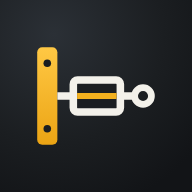
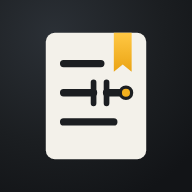
Yeni simge ve açılış efekti: not defteri ve kontak
- Simge: kâğıt sayfa, sarı ayraç; orta satır açık kontağa ve sarı bağlantı
  ucuna dönüşür. Dört PNG yeniden üretildi (maskeli simge güvenli dairede).
- Açılış: sayfa belirir, satırlar yazılır, kontak belirir, uç yanar ve
  halka yayar, ayraç düşer. Sayfa temanın mürekkep rengindedir (açık temada
  koyu, koyu temada açık). Tam işaret görünsün diye ekran 0,2 sn geç söner.
- Uzun ad dar ekranda iki satıra kaymasın diye nowrap ve küçük başlangıç
  harf aralığı.
- Rehber güncellendi; Tuzaklar: scale(0) ile gizleme güvenilmez (opacity
  de ver), yuvarlak uçlu çizgide ofset boy + 20, kare çekerken animasyonu
  yüklenir yüklenmez durdur.
- Sürüm 1.19.0.

Claude-Session: https://claude.ai/code/session_018EzsJHrouReZYX2CrAk9f8

diff --git a/index.html b/index.html
@@ -10,7 +10,7 @@
 <meta name="mobile-web-app-capable" content="yes">
 <meta name="apple-mobile-web-app-title" content="Otomasyon">
 <meta name="apple-mobile-web-app-status-bar-style" content="default">
-<meta name="pano-surum" content="202609280817">
+<meta name="pano-surum" content="202609280827">
 <link rel="manifest" href="manifest.webmanifest">
 <link rel="icon" type="image/png" href="varliklar/simgeler/icon-192.png">
 <link rel="apple-touch-icon" href="varliklar/simgeler/apple-touch-icon.png">
@@ -310,34 +310,42 @@ mark{background:var(--mark);color:var(--ink);padding:0 2px;border-radius:3px}
 .secenekler{flex-wrap:wrap}
 .secenek{flex:1 1 56px}
 
-/* Açılış ekranı: bara → iletken → sigorta çizilir, akım geçer, sigorta enerjilenir, uygulama adı belirir.
-   Çizim simge_olustur.py ile aynı koordinatları kullanır. Ekran CSS ile kendi kendine kapanır; JS yalnızca DOM’dan kaldırır. */
-.acilis-ekran{display:none;position:fixed;inset:0;z-index:50;overflow:hidden;background:var(--paper);align-items:center;justify-content:center;padding-bottom:8vh;cursor:pointer;animation:acilis-kapan .35s ease 1.35s forwards}
+/* Açılış ekranı: defter sayfası belirir, satırlar yazılır, orta satır kontağa dönüşür, uç yanar, ayraç düşer, uygulama adı belirir.
+   Çizim simge_olustur.py ile aynı koordinatları kullanır. Sayfa temanın mürekkep rengindedir: açık temada koyu, koyu temada açık sayfa.
+   Ekran CSS ile kendi kendine kapanır; JS yalnızca DOM’dan kaldırır. */
+.acilis-ekran{display:none;position:fixed;inset:0;z-index:50;overflow:hidden;background:var(--paper);align-items:center;justify-content:center;padding-bottom:8vh;cursor:pointer;animation:acilis-kapan .35s ease 1.55s forwards}
 .acilis-var .acilis-ekran{display:flex}
 .acilis-ekran.atla{animation:acilis-atla .2s ease forwards}
 .acilis-ic{display:flex;flex-direction:column;align-items:center;gap:12px}
-.acilis-isaret{display:block;width:164px;height:auto;margin-bottom:10px;overflow:visible}
-.a-bara{fill:var(--accent);transform-box:fill-box;transform-origin:center;animation:acilis-bara .45s cubic-bezier(.2,.8,.2,1) both}
-.a-bara circle{fill:var(--paper)}
-.a-tel{fill:none;stroke:var(--ink);stroke-width:18;stroke-dasharray:184;stroke-dashoffset:184;animation:acilis-ciz .4s cubic-bezier(.4,0,.2,1) .25s forwards}
-.a-akim{fill:none;stroke:var(--accent);stroke-width:8;stroke-linecap:round;stroke-dasharray:26 400;stroke-dashoffset:26;animation:acilis-akim .5s linear .7s forwards}
-.a-govde{fill:var(--paper);stroke:var(--ink);stroke-width:18;stroke-dasharray:360;stroke-dashoffset:360;animation:acilis-ciz .45s cubic-bezier(.4,0,.2,1) .4s forwards}
-.a-eleman{fill:none;stroke:var(--accent);stroke-width:14;stroke-dasharray:94;stroke-dashoffset:94;animation:acilis-ciz .25s ease-out .8s forwards}
-.a-uc{fill:none;stroke:var(--ink);stroke-width:16;transform-box:fill-box;transform-origin:center;animation:acilis-uc .3s cubic-bezier(.3,1.6,.5,1) .6s both}
-.acilis-ad{font-family:var(--f-display);font-weight:700;font-size:36px;line-height:1;letter-spacing:.04em;padding-left:.04em;color:var(--ink);animation:acilis-ad .6s cubic-bezier(.2,.7,.2,1) .35s both}
+.acilis-isaret{display:block;width:132px;height:auto;margin-bottom:12px;overflow:visible}
+.a-sayfa{fill:var(--ink);transform-box:fill-box;transform-origin:50% 100%;animation:acilis-sayfa .45s cubic-bezier(.2,.8,.2,1) both}
+.a-satir,.a-kontak{fill:none;stroke:var(--paper);stroke-linecap:round}
+.a-satir{stroke-width:18}
+/* Çizgi boyu + 20: yuvarlak uç, çizim başlamadan görünmesin. Boy değişirse bu değerleri de güncelle. */
+.a-s1{stroke-dasharray:92 400;stroke-dashoffset:112;animation:acilis-ciz .22s ease-out .3s forwards}
+.a-s2{stroke-dasharray:74 400;stroke-dashoffset:94;animation:acilis-ciz .18s ease-out .46s forwards}
+.a-s3{stroke-dasharray:34 400;stroke-dashoffset:54;animation:acilis-ciz .1s ease-out .7s forwards}
+.a-s4{stroke-dasharray:124 400;stroke-dashoffset:144;animation:acilis-ciz .26s ease-out .56s forwards}
+.a-kontak{stroke-width:14;transform-box:fill-box;transform-origin:center;animation:acilis-kontak .2s cubic-bezier(.3,1.5,.5,1) .6s both}
+.a-uc{fill:var(--accent);stroke:var(--ink);stroke-width:8;transform-box:fill-box;transform-origin:center;animation:acilis-uc .3s cubic-bezier(.3,1.6,.5,1) .78s both}
+.a-halka{fill:none;stroke:var(--accent);stroke-width:6;opacity:0;transform-box:fill-box;transform-origin:center;animation:acilis-halka .6s ease-out .92s}
+.a-ayrac{fill:var(--accent);transform-box:fill-box;transform-origin:50% 0;animation:acilis-ayrac .45s cubic-bezier(.3,1.4,.5,1) .88s both}
+.acilis-ad{font-family:var(--f-display);font-weight:700;font-size:36px;line-height:1;white-space:nowrap;letter-spacing:.04em;padding-left:.04em;color:var(--ink);animation:acilis-ad .6s cubic-bezier(.2,.7,.2,1) .35s both}
 .acilis-alt{font-size:13px;color:var(--muted);animation:acilis-belir .5s ease .6s both}
-.acilis .app>*{animation:acilis-gir .55s cubic-bezier(.2,.7,.2,1) 1.5s both}
-.acilis .app>:nth-child(1){animation-delay:1.2s}
-.acilis .app>:nth-child(2){animation-delay:1.26s}
-.acilis .app>:nth-child(3){animation-delay:1.32s}
-.acilis .app>:nth-child(4){animation-delay:1.38s}
-.acilis .app>:nth-child(5){animation-delay:1.44s}
-.acilis .alt-menu{animation:acilis-menu .5s cubic-bezier(.2,.7,.2,1) 1.3s both}
-@keyframes acilis-bara{from{transform:scaleY(0)}}
+.acilis .app>*{animation:acilis-gir .55s cubic-bezier(.2,.7,.2,1) 1.7s both}
+.acilis .app>:nth-child(1){animation-delay:1.4s}
+.acilis .app>:nth-child(2){animation-delay:1.46s}
+.acilis .app>:nth-child(3){animation-delay:1.52s}
+.acilis .app>:nth-child(4){animation-delay:1.58s}
+.acilis .app>:nth-child(5){animation-delay:1.64s}
+.acilis .alt-menu{animation:acilis-menu .5s cubic-bezier(.2,.7,.2,1) 1.5s both}
+@keyframes acilis-sayfa{from{opacity:0;transform:translateY(14px) scale(.9)}}
 @keyframes acilis-ciz{to{stroke-dashoffset:0}}
-@keyframes acilis-akim{to{stroke-dashoffset:-184}}
-@keyframes acilis-uc{from{transform:scale(0)}}
-@keyframes acilis-ad{from{opacity:0;letter-spacing:.3em;padding-left:.3em}}
+@keyframes acilis-kontak{from{opacity:0;transform:scaleY(.2)}}
+@keyframes acilis-uc{from{opacity:0;transform:scale(.2)}}
+@keyframes acilis-halka{from{opacity:.9;transform:scale(1)}to{opacity:0;transform:scale(3)}}
+@keyframes acilis-ayrac{from{opacity:0;transform:scaleY(.2)}}
+@keyframes acilis-ad{from{opacity:0;letter-spacing:.16em;padding-left:.16em}}
 @keyframes acilis-belir{from{opacity:0;transform:translateY(6px)}}
 @keyframes acilis-kapan{to{opacity:0;visibility:hidden}}
 @keyframes acilis-atla{to{opacity:0;visibility:hidden}}
@@ -406,13 +414,16 @@ mark{background:var(--mark);color:var(--ink);padding:0 2px;border-radius:3px}
 
 <div class="acilis-ekran" id="acilis" aria-hidden="true">
   <div class="acilis-ic">
-    <svg class="acilis-isaret" viewBox="112 132 296 248">
-      <path class="a-tel" d="M168 256H352"></path>
-      <path class="a-akim" d="M168 256H352"></path>
-      <rect class="a-govde" x="206" y="218" width="112" height="76" rx="10"></rect>
-      <path class="a-eleman" d="M215 256H309"></path>
-      <circle class="a-uc" cx="372" cy="256" r="20"></circle>
-      <g class="a-bara"><rect x="120" y="140" width="48" height="232" rx="12"></rect><circle cx="144" cy="178" r="9"></circle><circle cx="144" cy="334" r="9"></circle></g>
+    <svg class="acilis-isaret" viewBox="124 92 264 328">
+      <rect class="a-sayfa" x="132" y="100" width="248" height="312" rx="22"></rect>
+      <path class="a-satir a-s1" d="M176 176H268"></path>
+      <path class="a-satir a-s2" d="M176 248H250"></path>
+      <path class="a-kontak" d="M250 222V274M282 222V274"></path>
+      <path class="a-satir a-s3" d="M282 248H316"></path>
+      <path class="a-satir a-s4" d="M176 320H300"></path>
+      <circle class="a-halka" cx="330" cy="248" r="14"></circle>
+      <circle class="a-uc" cx="330" cy="248" r="14"></circle>
+      <path class="a-ayrac" d="M300 100h44v96l-22-18-22 18z"></path>
     </svg>
     <div class="acilis-ad">Otomasyon Notları</div>
     <div class="acilis-alt">Elektrik, elektronik ve endüstriyel otomasyon</div>
@@ -491,7 +502,7 @@ const MODELLER = {};
 const UYGULAMA = {
   ad: 'Otomasyon Notları',
   alt: 'Elektrik, elektronik ve endüstriyel otomasyon',
-  surum: '1.18.0',
+  surum: '1.19.0',
   gelistirici: 'Furkan Çağrı YÜKSEL',
   eposta: '[İLETİŞİM E-POSTASI]',
   premium: {

diff --git a/kaynak/stil/11-acilis.css b/kaynak/stil/11-acilis.css
@@ -1,31 +1,39 @@
-/* Açılış ekranı: bara → iletken → sigorta çizilir, akım geçer, sigorta enerjilenir, uygulama adı belirir.
-   Çizim simge_olustur.py ile aynı koordinatları kullanır. Ekran CSS ile kendi kendine kapanır; JS yalnızca DOM’dan kaldırır. */
-.acilis-ekran{display:none;position:fixed;inset:0;z-index:50;overflow:hidden;background:var(--paper);align-items:center;justify-content:center;padding-bottom:8vh;cursor:pointer;animation:acilis-kapan .35s ease 1.35s forwards}
+/* Açılış ekranı: defter sayfası belirir, satırlar yazılır, orta satır kontağa dönüşür, uç yanar, ayraç düşer, uygulama adı belirir.
+   Çizim simge_olustur.py ile aynı koordinatları kullanır. Sayfa temanın mürekkep rengindedir: açık temada koyu, koyu temada açık sayfa.
+   Ekran CSS ile kendi kendine kapanır; JS yalnızca DOM’dan kaldırır. */
+.acilis-ekran{display:none;position:fixed;inset:0;z-index:50;overflow:hidden;background:var(--paper);align-items:center;justify-content:center;padding-bottom:8vh;cursor:pointer;animation:acilis-kapan .35s ease 1.55s forwards}
 .acilis-var .acilis-ekran{display:flex}
 .acilis-ekran.atla{animation:acilis-atla .2s ease forwards}
 .acilis-ic{display:flex;flex-direction:column;align-items:center;gap:12px}
-.acilis-isaret{display:block;width:164px;height:auto;margin-bottom:10px;overflow:visible}
-.a-bara{fill:var(--accent);transform-box:fill-box;transform-origin:center;animation:acilis-bara .45s cubic-bezier(.2,.8,.2,1) both}
-.a-bara circle{fill:var(--paper)}
-.a-tel{fill:none;stroke:var(--ink);stroke-width:18;stroke-dasharray:184;stroke-dashoffset:184;animation:acilis-ciz .4s cubic-bezier(.4,0,.2,1) .25s forwards}
-.a-akim{fill:none;stroke:var(--accent);stroke-width:8;stroke-linecap:round;stroke-dasharray:26 400;stroke-dashoffset:26;animation:acilis-akim .5s linear .7s forwards}
-.a-govde{fill:var(--paper);stroke:var(--ink);stroke-width:18;stroke-dasharray:360;stroke-dashoffset:360;animation:acilis-ciz .45s cubic-bezier(.4,0,.2,1) .4s forwards}
-.a-eleman{fill:none;stroke:var(--accent);stroke-width:14;stroke-dasharray:94;stroke-dashoffset:94;animation:acilis-ciz .25s ease-out .8s forwards}
-.a-uc{fill:none;stroke:var(--ink);stroke-width:16;transform-box:fill-box;transform-origin:center;animation:acilis-uc .3s cubic-bezier(.3,1.6,.5,1) .6s both}
-.acilis-ad{font-family:var(--f-display);font-weight:700;font-size:36px;line-height:1;letter-spacing:.04em;padding-left:.04em;color:var(--ink);animation:acilis-ad .6s cubic-bezier(.2,.7,.2,1) .35s both}
+.acilis-isaret{display:block;width:132px;height:auto;margin-bottom:12px;overflow:visible}
+.a-sayfa{fill:var(--ink);transform-box:fill-box;transform-origin:50% 100%;animation:acilis-sayfa .45s cubic-bezier(.2,.8,.2,1) both}
+.a-satir,.a-kontak{fill:none;stroke:var(--paper);stroke-linecap:round}
+.a-satir{stroke-width:18}
+/* Çizgi boyu + 20: yuvarlak uç, çizim başlamadan görünmesin. Boy değişirse bu değerleri de güncelle. */
+.a-s1{stroke-dasharray:92 400;stroke-dashoffset:112;animation:acilis-ciz .22s ease-out .3s forwards}
+.a-s2{stroke-dasharray:74 400;stroke-dashoffset:94;animation:acilis-ciz .18s ease-out .46s forwards}
+.a-s3{stroke-dasharray:34 400;stroke-dashoffset:54;animation:acilis-ciz .1s ease-out .7s forwards}
+.a-s4{stroke-dasharray:124 400;stroke-dashoffset:144;animation:acilis-ciz .26s ease-out .56s forwards}
+.a-kontak{stroke-width:14;transform-box:fill-box;transform-origin:center;animation:acilis-kontak .2s cubic-bezier(.3,1.5,.5,1) .6s both}
+.a-uc{fill:var(--accent);stroke:var(--ink);stroke-width:8;transform-box:fill-box;transform-origin:center;animation:acilis-uc .3s cubic-bezier(.3,1.6,.5,1) .78s both}
+.a-halka{fill:none;stroke:var(--accent);stroke-width:6;opacity:0;transform-box:fill-box;transform-origin:center;animation:acilis-halka .6s ease-out .92s}
+.a-ayrac{fill:var(--accent);transform-box:fill-box;transform-origin:50% 0;animation:acilis-ayrac .45s cubic-bezier(.3,1.4,.5,1) .88s both}
+.acilis-ad{font-family:var(--f-display);font-weight:700;font-size:36px;line-height:1;white-space:nowrap;letter-spacing:.04em;padding-left:.04em;color:var(--ink);animation:acilis-ad .6s cubic-bezier(.2,.7,.2,1) .35s both}
 .acilis-alt{font-size:13px;color:var(--muted);animation:acilis-belir .5s ease .6s both}
-.acilis .app>*{animation:acilis-gir .55s cubic-bezier(.2,.7,.2,1) 1.5s both}
-.acilis .app>:nth-child(1){animation-delay:1.2s}
-.acilis .app>:nth-child(2){animation-delay:1.26s}
-.acilis .app>:nth-child(3){animation-delay:1.32s}
-.acilis .app>:nth-child(4){animation-delay:1.38s}
-.acilis .app>:nth-child(5){animation-delay:1.44s}
-.acilis .alt-menu{animation:acilis-menu .5s cubic-bezier(.2,.7,.2,1) 1.3s both}
-@keyframes acilis-bara{from{transform:scaleY(0)}}
+.acilis .app>*{animation:acilis-gir .55s cubic-bezier(.2,.7,.2,1) 1.7s both}
+.acilis .app>:nth-child(1){animation-delay:1.4s}
+.acilis .app>:nth-child(2){animation-delay:1.46s}
+.acilis .app>:nth-child(3){animation-delay:1.52s}
+.acilis .app>:nth-child(4){animation-delay:1.58s}
+.acilis .app>:nth-child(5){animation-delay:1.64s}
+.acilis .alt-menu{animation:acilis-menu .5s cubic-bezier(.2,.7,.2,1) 1.5s both}
+@keyframes acilis-sayfa{from{opacity:0;transform:translateY(14px) scale(.9)}}
 @keyframes acilis-ciz{to{stroke-dashoffset:0}}
-@keyframes acilis-akim{to{stroke-dashoffset:-184}}
-@keyframes acilis-uc{from{transform:scale(0)}}
-@keyframes acilis-ad{from{opacity:0;letter-spacing:.3em;padding-left:.3em}}
+@keyframes acilis-kontak{from{opacity:0;transform:scaleY(.2)}}
+@keyframes acilis-uc{from{opacity:0;transform:scale(.2)}}
+@keyframes acilis-halka{from{opacity:.9;transform:scale(1)}to{opacity:0;transform:scale(3)}}
+@keyframes acilis-ayrac{from{opacity:0;transform:scaleY(.2)}}
+@keyframes acilis-ad{from{opacity:0;letter-spacing:.16em;padding-left:.16em}}
 @keyframes acilis-belir{from{opacity:0;transform:translateY(6px)}}
 @keyframes acilis-kapan{to{opacity:0;visibility:hidden}}
 @keyframes acilis-atla{to{opacity:0;visibility:hidden}}

diff --git a/sw.js b/sw.js
@@ -1,6 +1,6 @@
 /* Otomasyon Notları çevrimdışı çalışma. İnternet varken her açılışta güncel index.html alınır.
    Bu dosya şablondur: derle.py sürüm damgasını ve önbelleğe alınacak dosya listesini yerine yazar. */
-const KABUK = 'pano-202609280817';
+const KABUK = 'pano-202609280827';
 const DOSYALAR = ["./", "./index.html", "./manifest.webmanifest", "./privacy.html", "./varliklar/kutuphane/three-0.186.1/three.min.js", "./varliklar/simgeler/apple-touch-icon.png", "./varliklar/simgeler/icon-192.png", "./varliklar/simgeler/icon-512.png", "./varliklar/simgeler/icon-maskable-512.png", "./varliklar/yazitipleri/barlow-condensed-latin-600-normal.woff2", "./varliklar/yazitipleri/barlow-condensed-latin-700-normal.woff2", "./varliklar/yazitipleri/barlow-condensed-latin-ext-600-normal.woff2", "./varliklar/yazitipleri/barlow-condensed-latin-ext-700-normal.woff2", "./varliklar/yazitipleri/ibm-plex-mono-latin-500-normal.woff2", "./varliklar/yazitipleri/ibm-plex-mono-latin-600-normal.woff2", "./varliklar/yazitipleri/ibm-plex-mono-latin-ext-500-normal.woff2", "./varliklar/yazitipleri/ibm-plex-mono-latin-ext-600-normal.woff2", "./varliklar/yazitipleri/ibm-plex-sans-latin-400-normal.woff2", "./varliklar/yazitipleri/ibm-plex-sans-latin-500-normal.woff2", "./varliklar/yazitipleri/ibm-plex-sans-latin-600-normal.woff2", "./varliklar/yazitipleri/ibm-plex-sans-latin-ext-400-normal.woff2", "./varliklar/yazitipleri/ibm-plex-sans-latin-ext-500-normal.woff2", "./varliklar/yazitipleri/ibm-plex-sans-latin-ext-600-normal.woff2"];
 
 self.addEventListener('install', (e) => {

diff --git a/kaynak/govde/03-acilis.html b/kaynak/govde/03-acilis.html
@@ -1,12 +1,15 @@
 <div class="acilis-ekran" id="acilis" aria-hidden="true">
   <div class="acilis-ic">
-    <svg class="acilis-isaret" viewBox="112 132 296 248">
-      <path class="a-tel" d="M168 256H352"></path>
-      <path class="a-akim" d="M168 256H352"></path>
-      <rect class="a-govde" x="206" y="218" width="112" height="76" rx="10"></rect>
-      <path class="a-eleman" d="M215 256H309"></path>
-      <circle class="a-uc" cx="372" cy="256" r="20"></circle>
-      <g class="a-bara"><rect x="120" y="140" width="48" height="232" rx="12"></rect><circle cx="144" cy="178" r="9"></circle><circle cx="144" cy="334" r="9"></circle></g>
+    <svg class="acilis-isaret" viewBox="124 92 264 328">
+      <rect class="a-sayfa" x="132" y="100" width="248" height="312" rx="22"></rect>
+      <path class="a-satir a-s1" d="M176 176H268"></path>
+      <path class="a-satir a-s2" d="M176 248H250"></path>
+      <path class="a-kontak" d="M250 222V274M282 222V274"></path>
+      <path class="a-satir a-s3" d="M282 248H316"></path>
+      <path class="a-satir a-s4" d="M176 320H300"></path>
+      <circle class="a-halka" cx="330" cy="248" r="14"></circle>
+      <circle class="a-uc" cx="330" cy="248" r="14"></circle>
+      <path class="a-ayrac" d="M300 100h44v96l-22-18-22 18z"></path>
     </svg>
     <div class="acilis-ad">Otomasyon Notları</div>
     <div class="acilis-alt">Elektrik, elektronik ve endüstriyel otomasyon</div>

diff --git a/kaynak/ortak/30-ayarlar.js b/kaynak/ortak/30-ayarlar.js
@@ -6,7 +6,7 @@
 const UYGULAMA = {
   ad: 'Otomasyon Notları',
   alt: 'Elektrik, elektronik ve endüstriyel otomasyon',
-  surum: '1.18.0',
+  surum: '1.19.0',
   gelistirici: 'Furkan Çağrı YÜKSEL',
   eposta: '[İLETİŞİM E-POSTASI]',
   premium: {

diff --git a/araclar/simge_olustur.py b/araclar/simge_olustur.py
@@ -4,7 +4,7 @@ Kullanım (depo kökünden):
   python3 araclar/simge_olustur.py              # icon-192, icon-512, icon-maskable-512, apple-touch-icon
   python3 araclar/simge_olustur.py --onizle DIR # ayrıca yuvarlak ve kare maskeli önizleme kaydeder
 
-Simge: sarı bara → sigorta (IEC 60617 sembolü, içi enerjili) → bağlantı ucu.
+Simge: not defteri sayfası, sarı ayraç; ortadaki satır açık kontağa (IEC 60617) ve sarı bağlantı ucuna dönüşür.
 Açılış ekranındaki çizim (kaynak/govde/03-acilis.html) aynı koordinatları kullanır; biri değişirse öbürünü de güncelle.
 Ayrıntılı adımlar: belgeler/simge-ve-acilis.md
 Gerekli: pip install playwright (ortamda Chromium varsa kurulum gerekmez).
@@ -27,19 +27,20 @@ def simge(px, olcek):
   <linearGradient id="b" x1="0" y1="0" x2="0" y2="1"><stop offset="0" stop-color="#FFC844"/><stop offset="1" stop-color="#EBA414"/></linearGradient>
 </defs>
 <rect width="512" height="512" fill="url(#z)"/>
-<g transform="translate(256 256) scale({olcek}) translate(-260 -256)">
-  <rect x="120" y="140" width="48" height="232" rx="12" fill="url(#b)"/>
-  <circle cx="144" cy="178" r="9" fill="{ZEMIN}"/><circle cx="144" cy="334" r="9" fill="{ZEMIN}"/>
-  <path d="M168 256H352" stroke="{KAGIT}" stroke-width="18"/>
-  <rect x="206" y="218" width="112" height="76" rx="10" fill="{ZEMIN}" stroke="{KAGIT}" stroke-width="18"/>
-  <path d="M215 256H309" stroke="{SARI}" stroke-width="14"/>
-  <circle cx="372" cy="256" r="20" fill="none" stroke="{KAGIT}" stroke-width="16"/>
+<g transform="translate(256 256) scale({olcek}) translate(-256 -256)">
+  <rect x="132" y="100" width="248" height="312" rx="22" fill="{KAGIT}"/>
+  <path d="M300 100h44v96l-22-18-22 18z" fill="url(#b)"/>
+  <g fill="none" stroke="{ZEMIN}" stroke-linecap="round">
+    <path d="M176 176H268M176 320H300M176 248H250M282 248H316" stroke-width="18"/>
+    <path d="M250 222V274M282 222V274" stroke-width="14"/>
+  </g>
+  <circle cx="330" cy="248" r="14" fill="{SARI}" stroke="{ZEMIN}" stroke-width="8"/>
 </g>
 </svg>'''
 
 
-# İşaretin uç noktası merkezden en fazla ≈ 182 birim uzakta: maskeli simgede 1,0 ölçek güvenli daireye (204) sığar.
-DOSYALAR = [('icon-192.png', 192, 1.12), ('icon-512.png', 512, 1.12), ('icon-maskable-512.png', 512, 1.0), ('apple-touch-icon.png', 180, 1.12)]
+# Sayfanın köşesi merkezden ≈ 191 birim uzakta (yuvarlatma dahil): maskeli simgede 1,0 ölçek güvenli daireye (204) sığar.
+DOSYALAR = [('icon-192.png', 192, 1.08), ('icon-512.png', 512, 1.08), ('icon-maskable-512.png', 512, 1.0), ('apple-touch-icon.png', 180, 1.08)]
 
 from playwright.sync_api import sync_playwright
 
@@ -56,7 +57,7 @@ with sync_playwright() as p:
         pg = b.new_page(viewport={'width': 860, 'height': 260})
         kutu = lambda px, olcek, r: f'<div style="border-radius:{r};overflow:hidden">{simge(px, olcek)}</div>'
         pg.set_content('<body style="margin:0;padding:24px;background:#8A8F94;display:flex;gap:24px;align-items:flex-start">'
-                       + kutu(200, 1.0, '50%') + kutu(200, 1.12, '44px') + kutu(96, 1.12, '22px') + kutu(48, 1.0, '50%') + kutu(32, 1.12, '7px') + '</body>')
+                       + kutu(200, 1.0, '50%') + kutu(200, 1.08, '44px') + kutu(96, 1.08, '22px') + kutu(48, 1.0, '50%') + kutu(32, 1.08, '7px') + '</body>')
         pg.screenshot(path=str(klasor / 'simge_onizleme.png'))
         print('önizleme:', klasor / 'simge_onizleme.png')
     b.close()

diff --git a/belgeler/simge-ve-acilis.md b/belgeler/simge-ve-acilis.md
@@ -1,6 +1,8 @@
 # Uygulama simgesi ve açılış efekti
 
-Simge ve açılış efekti aynı işareti kullanır: **sarı bara → sigorta (içi enerjili) → bağlantı ucu**. Koordinatlar ikisinde de aynıdır (512 × 512 ızgara). Birini değiştirirsen öbürünü de güncelle.
+Simge ve açılış efekti aynı işareti kullanır: **not defteri sayfası, sarı ayraç; ortadaki satır açık kontağa (IEC 60617) ve sarı bağlantı ucuna dönüşür.** Uygulamanın adı “Otomasyon Notları”dır; sayfa “notları”, kontak “otomasyonu” anlatır. Koordinatlar ikisinde de aynıdır (512 × 512 ızgara). Birini değiştirirsen öbürünü de güncelle.
+
+Simgede sayfa kâğıt rengindedir, zemin koyudur. Açılışta sayfa temanın mürekkep rengini (`--ink`), satırlar zemin rengini (`--paper`) alır: açık temada koyu sayfa, koyu temada simgedeki gibi açık sayfa görünür.
 
 ## Simgeyi değiştirmek
 
@@ -13,7 +15,7 @@ Simgeler elle çizilmez; `araclar/simge_olustur.py` SVG’den üretir.
    ```
    `varliklar/simgeler/` içindeki dört dosya yenilenir: `icon-192.png`, `icon-512.png`, `icon-maskable-512.png`, `apple-touch-icon.png` (180 px).
 3. `/tmp/simge/simge_onizleme.png` dosyasına bak: yuvarlak maske (Android), yuvarlatılmış kare (iOS), 48 ve 32 px’te okunabilirlik.
-4. Maskeli simgede işaret, çapı simgenin %80’i olan güvenli dairenin içinde kalmalı. 512 px’te merkezden en fazla 204 px. Dosyadaki `DOSYALAR` listesinde maskeli simgenin ölçeği bu yüzden 1,0’dır.
+4. Maskeli simgede işaret, çapı simgenin %80’i olan güvenli dairenin içinde kalmalı. 512 px’te merkezden en fazla 204 px. Sayfanın köşesi ≈ 191 px uzaktadır; `DOSYALAR` listesinde maskeli simgenin ölçeği bu yüzden 1,0, ötekilerin 1,08’dir.
 5. İşaretin biçimi değiştiyse açılış çizimini de güncelle (aşağıda).
 6. Derle, denetle, gönder (yayin.md).
 
@@ -40,25 +42,26 @@ Telefonda: Android ana ekran simgesini, uygulama açıldıktan sonra genelde bir
 
 | Parça | Sınıf | Başlangıç–bitiş |
 |---|---|---|
-| Bara uzar | `.a-bara` | 0–450 |
-| İletken çizilir | `.a-tel` | 250–650 |
-| Sigorta gövdesi çizilir | `.a-govde` | 400–850 |
-| Bağlantı ucu belirir | `.a-uc` | 600–900 |
-| Akım darbesi geçer | `.a-akim` | 700–1200 |
-| Sigorta enerjilenir | `.a-eleman` | 800–1050 |
+| Sayfa belirir | `.a-sayfa` | 0–450 |
+| Satırlar yazılır | `.a-s1`, `.a-s2`, `.a-s4` | 300–820 |
+| Kontak belirir | `.a-kontak` | 600–800 |
+| Kontaktan sonraki satır | `.a-s3` | 700–800 |
+| Bağlantı ucu yanar | `.a-uc` | 780–1080 |
+| Ayraç düşer | `.a-ayrac` | 880–1330 |
+| Uçtan halka yayılır | `.a-halka` | 920–1520 |
 | Uygulama adı | `.acilis-ad` | 350–950 |
 | Alt yazı | `.acilis-alt` | 600–1100 |
-| Ekran söner | `.acilis-ekran` | 1350–1700 |
-| Ana ekran öğeleri girer | `.acilis .app>*` | 1200–2050 |
-| Alt menü girer | `.acilis .alt-menu` | 1300–1800 |
+| Ekran söner | `.acilis-ekran` | 1550–1900 |
+| Ana ekran öğeleri girer | `.acilis .app>*` | 1400–2250 |
+| Alt menü girer | `.acilis .alt-menu` | 1500–2000 |
 | Sınıflar kaldırılır | `99-baslat.js`, `setTimeout(bitir, 2400)` | 2400 |
 
 ### Sık yapılan değişiklikler
 
-- **Süreyi kısaltmak/uzatmak:** `.acilis-ekran` animasyon gecikmesini (1,35 sn), `.acilis .app>*` gecikmelerini ve `99-baslat.js` içindeki 2400 ms’yi birlikte kaydır. 2400, son giriş animasyonunun bitişinden (≈ 2050) büyük kalmalı.
+- **Süreyi kısaltmak/uzatmak:** `.acilis-ekran` animasyon gecikmesini (1,55 sn), `.acilis .app>*` ve `.acilis .alt-menu` gecikmelerini ve `99-baslat.js` içindeki 2400 ms’yi birlikte kaydır. 2400, son giriş animasyonunun bitişinden (≈ 2250) büyük kalmalı.
 - **Her açılışta göstermek:** `02-erken-betik.js` içinde `sessionStorage` satırını kaldır.
 - **Tamamen kapatmak:** `02-erken-betik.js` içinde `goster = false` yap. Başka bir şeye dokunmak gerekmez.
-- **Çizimi değiştirmek:** `03-acilis.html` içindeki koordinatlar simgeyle aynı ızgaradadır. Çizgi uzunluğu değişirse `11-acilis.css` içindeki `stroke-dasharray` değerlerini de güncelle: iletken 184, gövde çevresi 360, sigorta elemanı 94.
+- **Çizimi değiştirmek:** `03-acilis.html` içindeki koordinatlar simgeyle aynı ızgaradadır. Satır uzunluğu değişirse `11-acilis.css` içindeki değerleri de güncelle: `stroke-dasharray` satır boyu (92, 74, 34, 124), `stroke-dashoffset` boy + 20.
 
 ### Denetim
 
@@ -67,4 +70,11 @@ Telefonda: Android ana ekran simgesini, uygulama açıldıktan sonra genelde bir
   ```js
   document.getAnimations().forEach((a) => { a.pause(); a.currentTime = 900; });
   ```
+  Otomatik kare çekerken animasyonları sayfa yüklenir yüklenmez (`DOMContentLoaded`) durdur ve zamanı ileri doğru ilerlet. Bitmiş animasyonu geri sararsan ekran görüntüsü eski kareyi gösterebilir; hesaplanan stil doğru olsa bile.
 - [ ] Açık ve koyu temada, “hareketi azalt” açık ve kapalıyken dene.
+
+## Tuzaklar
+
+- **`scale(0)` ile gizleme.** Chrome, `scaleY(0)` verilmiş çizgiyi bazen yine çizdi. Büyüyerek beliren parçanın başlangıç karesine `opacity:0` da yaz ve ölçeği 0 yerine 0,2 gibi bir değerden başlat.
+- **Yuvarlak uçlu çizgi.** `stroke-dashoffset` çizgi boyuna eşitse yuvarlak uç, çizim başlamadan nokta olarak görünür. Ofseti boy + 20 yap, `stroke-dasharray` aralığını büyük tut (`92 400`).
+- **Uzun ad.** Harf aralığı açılarak beliren ad dar ekranda iki satıra kayar. `white-space:nowrap` ver, başlangıç aralığını küçük tut (.16em).
